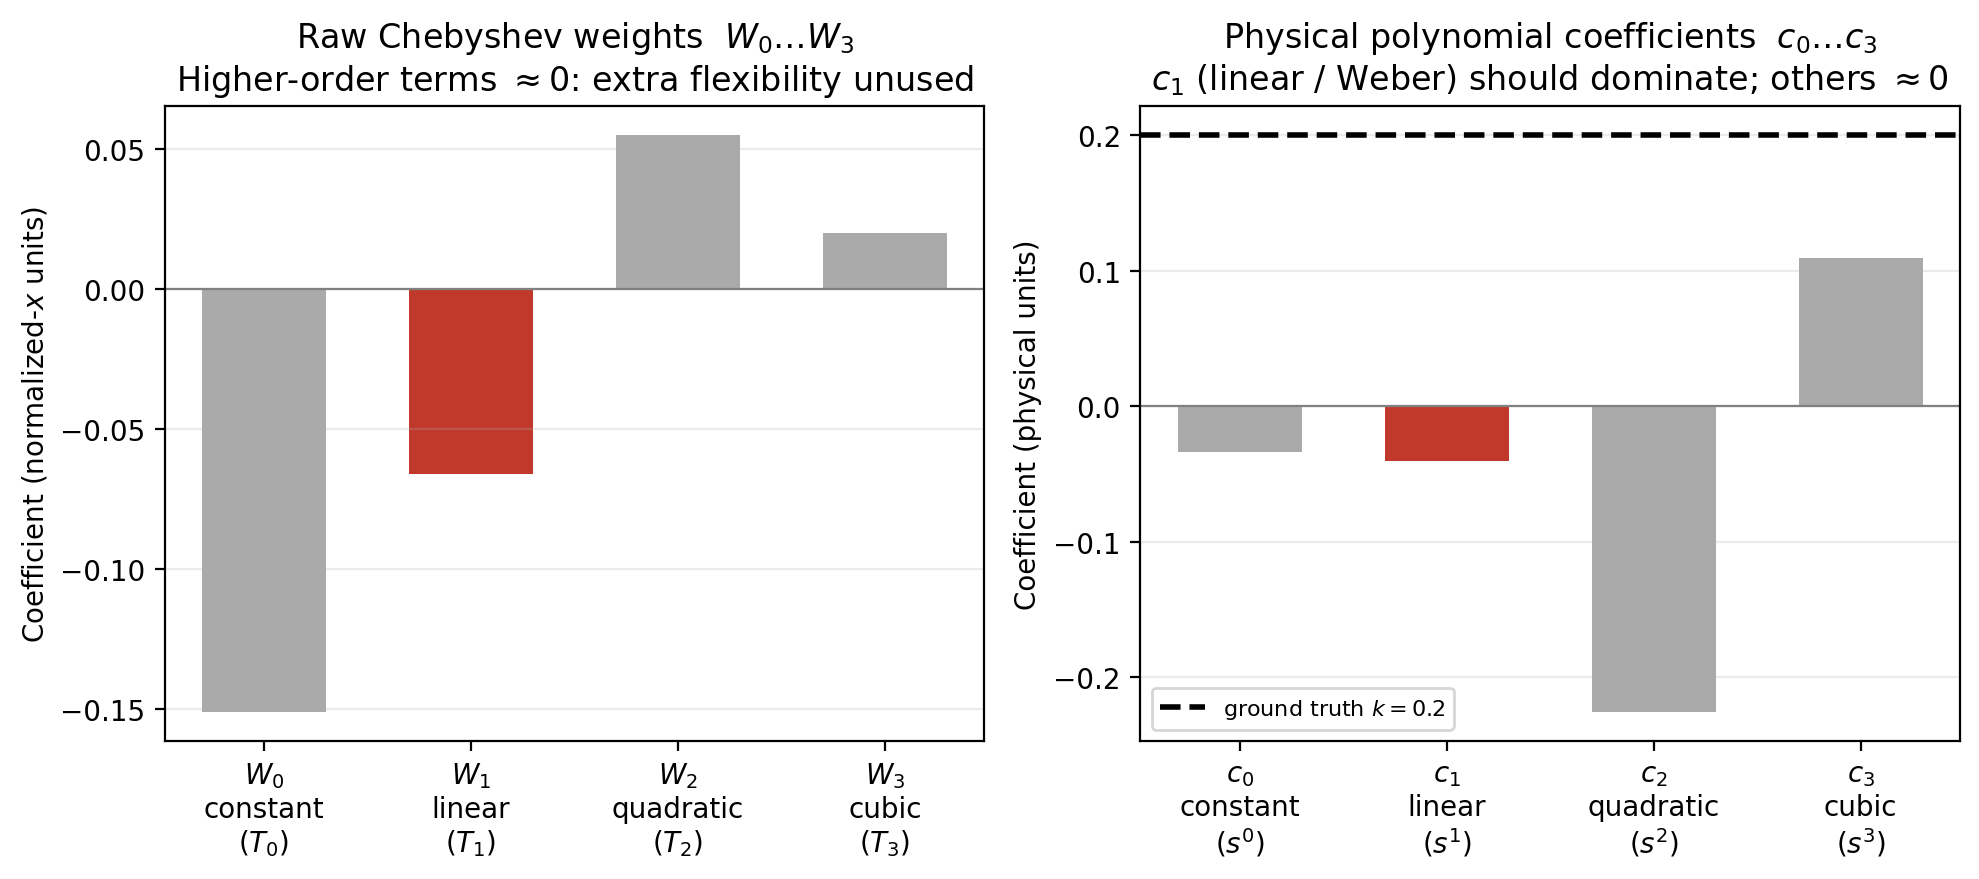
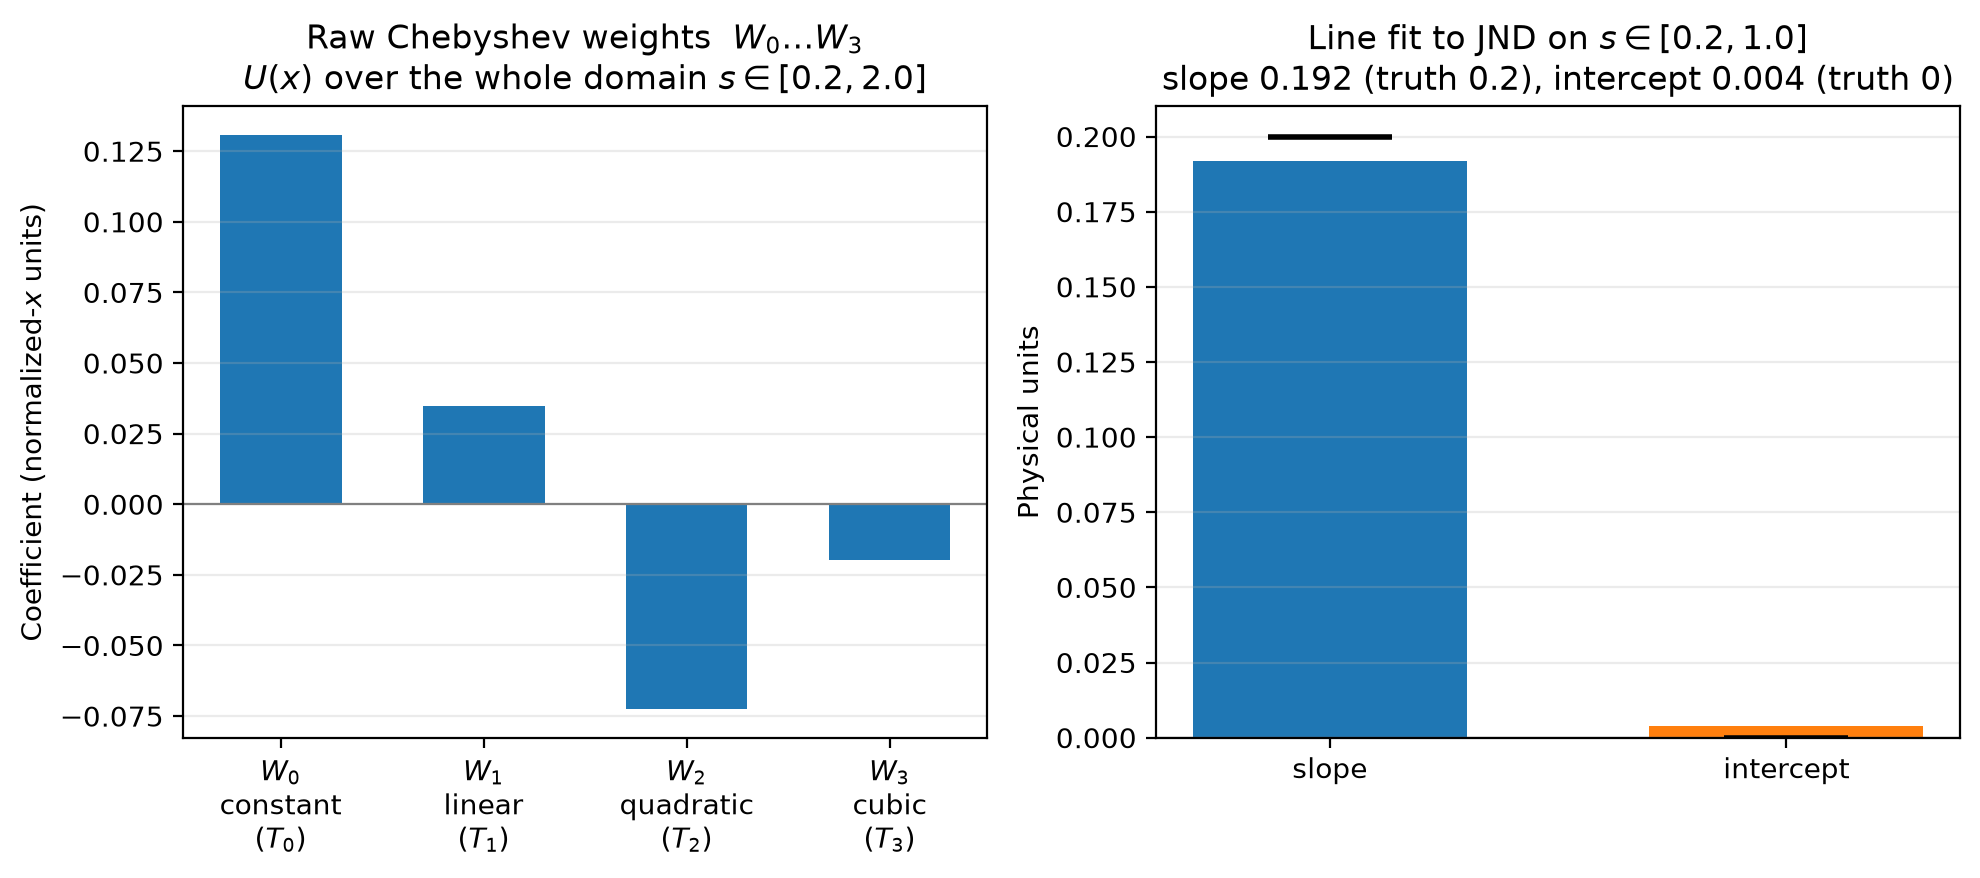
weber_law_demo fits with extra_embedding_dims=0, reports the slope of the fitted JND

diff --git a/docs/examples/wppm/weber_law_demo.py b/docs/examples/wppm/weber_law_demo.py
@@ -289,7 +289,8 @@ BASIS_DEGREE_FIT = 3
 print("[2/5] Fitting 1D WPPM via MAPOptimizer ...")
 
 # --8<-- [start:fit]
-prior = Prior(input_dim=1, basis_degree=BASIS_DEGREE_FIT)
+# extra_embedding_dims=0 so U(x) is 1x1, as in WeberGroundTruth
+prior = Prior(input_dim=1, basis_degree=BASIS_DEGREE_FIT, extra_embedding_dims=0)
 model = WPPM(
     # 1D in put stimuli
     prior=prior,
@@ -338,42 +339,25 @@ weber_fraction_fitted = jnd_fitted / s_grid
 # --8<-- [end:jnd]
 
 # ---------------------------------------------------------------------------
-# Weight analysis: exact analytical basis change; Chebyshev(x) -> monomial(s).
+# Weight analysis: Chebyshev weights, and the line JND(s) = slope*s + intercept
 # ---------------------------------------------------------------------------
-# The normalization x = a*s + b is an invertible affine map.  Because T_n(x(s))
-# is a degree-n polynomial in s, the Chebyshev representation U(x) = Σ W_n T_n(x)
-# and the physical monomial representation U(s) = Σ c_n s^n span the same space.
-# The conversion is a pure linear basis change; no fitting, no approximation:
-#   Step 1: cheb2poly converts W -> monomial coefficients in normalized x.
-#   Step 2: substituting x = a*s + b (polynomial composition) maps those to s.
-W_raw = np.asarray(map_posterior.params["W"]).reshape(-1)  # shape (BASIS_DEGREE+1,)
+# U and -U give the same Sigma = U^2, so the sign of W is arbitrary.
+# We flip it so that U > 0 in the middle of the reference range.
+W_raw = np.asarray(map_posterior.params["W"])[:, 0, 0]  # (BASIS_DEGREE_FIT+1,)
+x_mid = float(to_norm(0.5 * (S_MIN + S_MAX_REF)))
+W_raw = W_raw * np.sign(np.polynomial.chebyshev.chebval(x_mid, W_raw))
 
-_a = 2.0 / (S_MAX - S_MIN)  # slope of x(s)
-_b = -2.0 * S_MIN / (S_MAX - S_MIN) - 1.0  # intercept of x(s)
-
-mono_in_x = np.polynomial.chebyshev.cheb2poly(W_raw)  # U(x) in monomial basis
-
-phys_coeffs = np.zeros(len(mono_in_x))
-for k, ck in enumerate(mono_in_x):
-    # (b + a*s)^k as a polynomial in s (ascending coefficient order)
-    term = np.polynomial.polynomial.polypow([_b, _a], k)
-    phys_coeffs[: len(term)] += ck * term
-# phys_coeffs[n] = coefficient of s^n in U(s), for n = 0 ... BASIS_DEGREE
-
+# The monomial coefficients of a degree-3 U(s) are not pinned by data on
+# [S_MIN, S_MAX_REF], since s, s^2 and s^3 are nearly collinear there.
+# The slope of the fitted JND over that range is, and Weber predicts slope k, intercept 0
+weber_slope, weber_intercept = np.polyfit(
+    np.asarray(s_grid), np.asarray(jnd_fitted), deg=1
+)
 print(
-    "  Weight analysis; physical coefficients cn of U(s) = sum_n cn*s^n:\n"
-    + "".join(
-        f"    c_{n} = {phys_coeffs[n]:.4f}"
-        + (
-            "  <- Weber slope (truth 0.2000)"
-            if n == 1
-            else "  <- noise floor (truth 0.0000)"
-            if n == 0
-            else "  <- should be \approx 0"
-        )
-        + "\n"
-        for n in range(len(phys_coeffs))
-    )
+    f"  Chebyshev weights W = {', '.join(f'{w:.4f}' for w in W_raw)}\n"
+    f"  Line fit to JND on [{S_MIN}, {S_MAX_REF}]: "
+    f"slope = {weber_slope:.4f} (truth {K_WEBER}), "
+    f"intercept = {weber_intercept:.4f} (truth 0)"
 )
 
 # --8<-- [start:fechner]
@@ -562,13 +546,11 @@ def draw_weber_fraction(ax):
 def draw_weber_coeffs_raw(ax):
     """Left panel: raw Chebyshev coefficients W_0 ... W_degree in normalized-x space.
 
-    U(x) = sum_n W_n * T_n(x), x in [-1, 1].
-    W_1 (linear term) should dominate; W_2, W_3, ... should be near zero,
-    showing the model didn't use its extra flexibility.
+    U(x) = sum_n W_n * T_n(x) over the whole domain x in [-1, 1], s in [S_MIN, S_MAX].
+    References only cover [S_MIN, S_MAX_REF], so W_2 and W_3 need not be near zero
+    for a linear JND on that range. Read the right panel for the Weber slope.
 
-    Note: W_0 is large even for pure Weber's law; not because of a noise floor,
-    but because x=0 maps to the middle of the physical domain (s=1.1), not s=0.
-    The physically interpretable decomposition is in the right panel.
+    W_0 is large even for pure Weber's law, since x=0 maps to s=1.1, not s=0.
     """
     degree = len(W_raw) - 1
     poly_names = ["constant", "linear", "quadratic", "cubic", "quartic", "quintic"]
@@ -578,52 +560,34 @@ def draw_weber_coeffs_raw(ax):
         poly = poly_names[n] if n < len(poly_names) else f"degree {n}"
         labels.append(f"$W_{n}$\n{poly}\n($T_{n}$)")
 
-    colors = ["#c0392b" if n == 1 else "#aaaaaa" for n in range(degree + 1)]
-    ax.bar(labels, W_raw.tolist(), color=colors, width=0.6)
+    ax.bar(labels, W_raw.tolist(), color="C0", width=0.6)
     ax.axhline(0.0, color="gray", linewidth=0.8)
     ax.set_ylabel("Coefficient (normalized-$x$ units)")
     ax.set_title(
         f"Raw Chebyshev weights  $W_0 \\ldots W_{{{degree}}}$\n"
-        r"Higher-order terms $\approx 0$: extra flexibility unused"
+        f"$U(x)$ over the whole domain $s \\in [{S_MIN}, {S_MAX}]$"
     )
     ax.grid(True, axis="y", alpha=0.25)
 
 
 def draw_weber_coeffs_physical(ax):
-    """Right panel: polynomial coefficients of U(s) in physical stimulus units.
+    """Right panel: slope and intercept of a line fit to the fitted JND(s).
 
-    Obtained by fitting a degree-BASIS_DEGREE polynomial to sqrt(Sigma_hat(s))
-    vs physical s. Coefficients are ordered ascending: c_0 (constant), c_1
-    (linear), c_2 (quadratic), ...
-
-    For Weber's law, c_1 should dominate (\approx K_WEBER) and all other terms
-    should be near zero; showing the model recovered a linear law despite
-    having the flexibility to fit higher-order curves.
+    The line is fit on the reference range [S_MIN, S_MAX_REF]. Weber's law
+    predicts slope K_WEBER and intercept 0, shown as black ticks.
     """
-    degree = len(phys_coeffs) - 1
-    poly_names = ["constant", "linear", "quadratic", "cubic", "quartic", "quintic"]
-
-    labels = []
-    for n in range(degree + 1):
-        poly = poly_names[n] if n < len(poly_names) else f"degree {n}"
-        labels.append(f"$c_{n}$\n{poly}\n($s^{n}$)")
-
-    colors = ["#c0392b" if n == 1 else "#aaaaaa" for n in range(degree + 1)]
-    ax.bar(labels, phys_coeffs.tolist(), color=colors, width=0.6)
-    ax.axhline(
-        K_WEBER,
-        color="k",
-        linestyle="--",
-        linewidth=2,
-        label=f"ground truth $k = {K_WEBER}$",
-    )
+    labels = ["slope", "intercept"]
+    fitted = [weber_slope, weber_intercept]
+    truth = [K_WEBER, 0.0]
+    ax.bar(labels, fitted, color=["C0", "C1"], width=0.6)
+    ax.scatter(labels, truth, marker="_", s=2000, color="k", linewidths=2, zorder=3)
     ax.axhline(0.0, color="gray", linewidth=0.8)
-    ax.set_ylabel("Coefficient (physical units)")
+    ax.set_ylabel("Physical units")
     ax.set_title(
-        f"Physical polynomial coefficients  $c_0 \\ldots c_{{{degree}}}$\n"
-        r"$c_1$ (linear / Weber) should dominate; others $\approx 0$"
+        f"Line fit to JND on $s \\in [{S_MIN}, {S_MAX_REF}]$\n"
+        f"slope {weber_slope:.3f} (truth {K_WEBER}), "
+        f"intercept {weber_intercept:.3f} (truth 0)"
     )
-    ax.legend(fontsize=8)
     ax.grid(True, axis="y", alpha=0.25)
 
 
